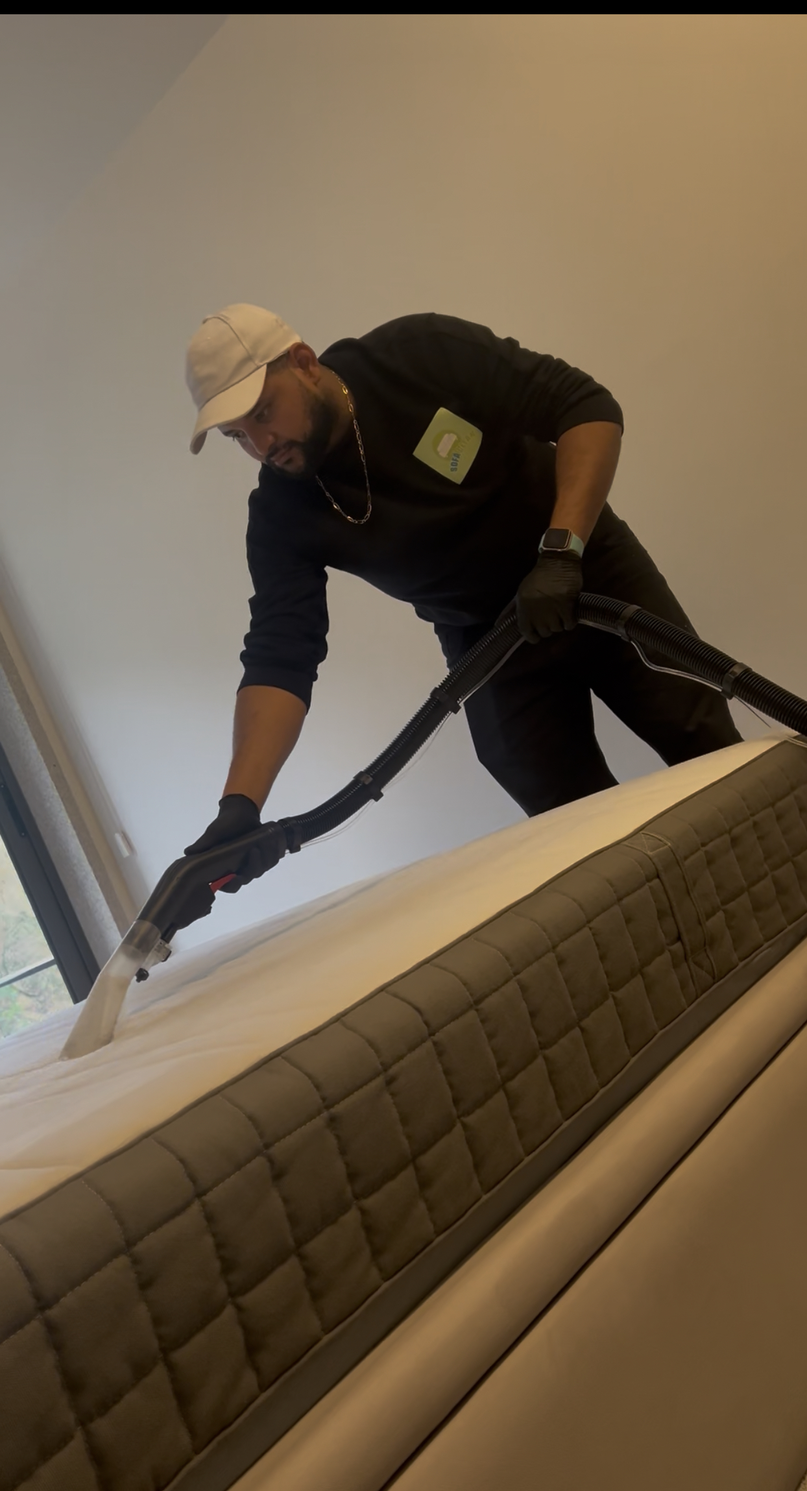
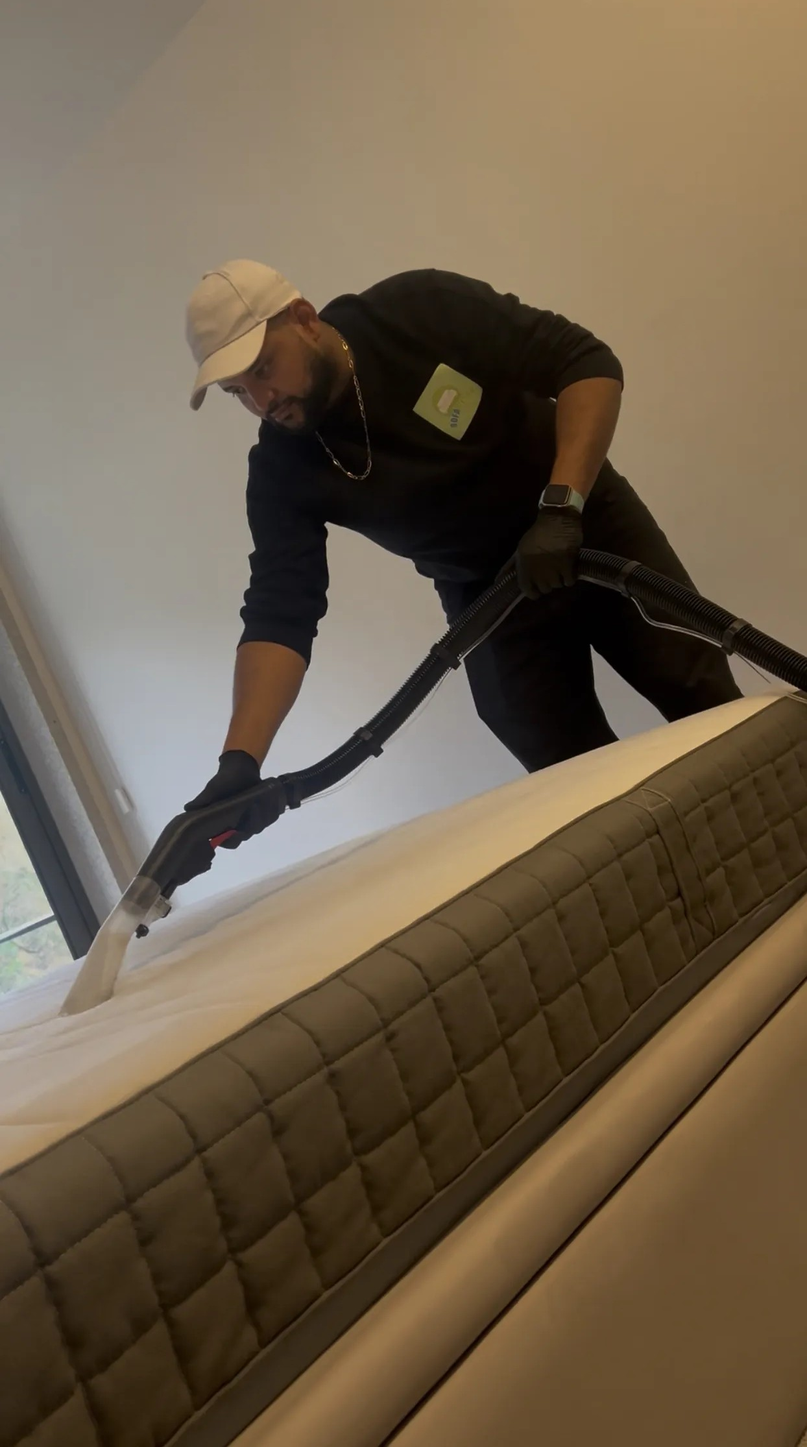
update new image

diff --git a/sofaclean_site/ContactModal.tsx b/sofaclean_site/ContactModal.tsx
@@ -29,7 +29,7 @@ export function ContactModal({ isOpen, onClose, initialTopic = '' }: ContactModa
           <label>Email *<input name="email" type="email" required placeholder="nome@email.com" /></label>
           <label>Telemóvel<input name="phone" type="tel" placeholder="+351 ..." /></label>
           <label>Assunto *<select name="subject" required defaultValue=""><option value="" disabled>Escolha o assunto</option><option value="Contato">Contato</option><option value="Dúvidas">Dúvidas</option><option value="Orçamento">Orçamento</option><option value="Reclamação">Reclamação</option><option value="Sugestão">Sugestão</option><option value="Outros">Outros</option></select></label>
-          <label>Serviço *<select name="topic" required defaultValue={initialTopic}><option value="" disabled>Escolha um serviço</option><option>Higienização de sofás</option><option>Higienização de poltronas</option><option>Higienização de colchões</option><option>Limpeza de tapete</option><option>Limpeza de banco de carro</option><option>Impermeabilização</option><option>Outros</option></select></label>
+          <label>Serviço *<select name="topic" required defaultValue={initialTopic}><option value="" disabled>Escolha um serviço</option><option>Higienização de sofás</option><option>Higienização de colchões</option><option>Limpeza de tapete</option><option>Limpeza de banco de carro</option><option>Impermeabilização</option><option>Outros</option></select></label>
           <label className={"contactFull"}>Mensagem *<textarea name="message" required rows={4} placeholder="Conte-nos o que precisa..." /></label>
           <button className="button green" type="submit"><Mail size={18} /> Enviar pedido por email</button>
           <p className="contactRequiredNote">Os campos assinalados com * são obrigatórios.</p>

diff --git a/sofaclean_site/content.ts b/sofaclean_site/content.ts
@@ -1,4 +1,4 @@
-import { Building2, Sofa, Armchair, BedDouble, Car, Layers, ShieldCheck, CalendarCheck, Sparkles } from 'lucide-react';
+import { Building2, Sofa, BedDouble, Car, Layers, ShieldCheck, CalendarCheck, Sparkles } from 'lucide-react';
 
 export const generalServicesContent = {
   name: 'Sofa Clean',
@@ -10,8 +10,7 @@ export const generalServicesContent = {
   whatsappNumber: '351925535456',
   heroImage: { src: '/sofaclean/photos/equipa.webp', alt: 'Equipa SofaClean preparada para cuidar dos seus estofos' } as { src: string; alt: string } | null,
   services: [
-    { icon: Sofa, title: 'Higienização de sofás', text: 'Cuidados para o tecido e limpeza do sofá, com avaliação prévia do seu estado.', image: '/sofaclean/photos/servico_sofa.webp' },
-    { icon: Armchair, title: 'Higienização de poltronas', text: 'Limpeza cuidada de poltronas, adaptada ao material e às necessidades de cada peça.', image: '/sofaclean/icons/poltronas.svg' },
+    { icon: Sofa, title: 'Higienização de sofás', text: 'Cuidados para o tecido e limpeza do sofá, com avaliação prévia do seu estado.', image: '/sofaclean/photos/servico_sofa_separada.webp' },
     { icon: BedDouble, title: 'Higienização de colchões', text: 'Higienização do colchão com avaliação do revestimento e orientação sobre a secagem.', image: '/sofaclean/photos/servico_colchao.webp' },
     { icon: Layers, title: 'Limpeza de tapete', text: 'Limpeza de tapetes adaptada às fibras e ao estado de conservação, com avaliação prévia da sujidade e das manchas.', image: '/sofaclean/photos/durante_servico.webp' },
     { icon: Car, title: 'Limpeza de banco de carro', text: 'Limpeza dos estofos dos bancos do carro, com cuidados adequados ao material e orientação sobre a secagem.', image: '/sofaclean/photos/servico_banco_carro.webp' },

diff --git a/styles/general-services.css b/styles/general-services.css
@@ -133,3 +133,23 @@
 .template .services .service-thumbnail{width:100%;max-width:600px;height:auto;aspect-ratio:600/430;object-fit:contain;margin-inline:auto}
 
 .template .services .services-heading{display:flex;justify-content:center;text-align:center}
+
+.template .faq.section{padding-top:32px;padding-bottom:32px;column-gap:48px;row-gap:20px;align-items:start}
+.template .faq .back-to-top{grid-column:1/-1;margin-top:8px}
+@media(max-width:850px){.template .faq.section{padding-top:28px;padding-bottom:28px;gap:20px}}
+
+.template .process.section{padding:32px 0}
+.template .process .center-head{margin-bottom:24px}
+.template .process .back-to-top{margin-top:18px}
+.template .customer-reviews.section{padding-top:32px;padding-bottom:32px}
+.template .reviews-heading{gap:20px;margin-bottom:22px}
+.template .reviews-heading h2{font-size:clamp(28px,3.2vw,38px);margin-top:8px}
+.template .reviews-grid{gap:16px}
+.template .review-card{padding:20px;border-radius:16px}
+.template .review-card blockquote{margin:14px 0 18px;line-height:1.6}
+.template .reviews-source{margin-top:16px;line-height:1.5}
+@media(max-width:850px){
+  .template .process.section,.template .customer-reviews.section{padding-top:28px;padding-bottom:28px}
+  .template .process .steps{gap:18px}
+  .template .reviews-heading{gap:14px;margin-bottom:18px}
+}
